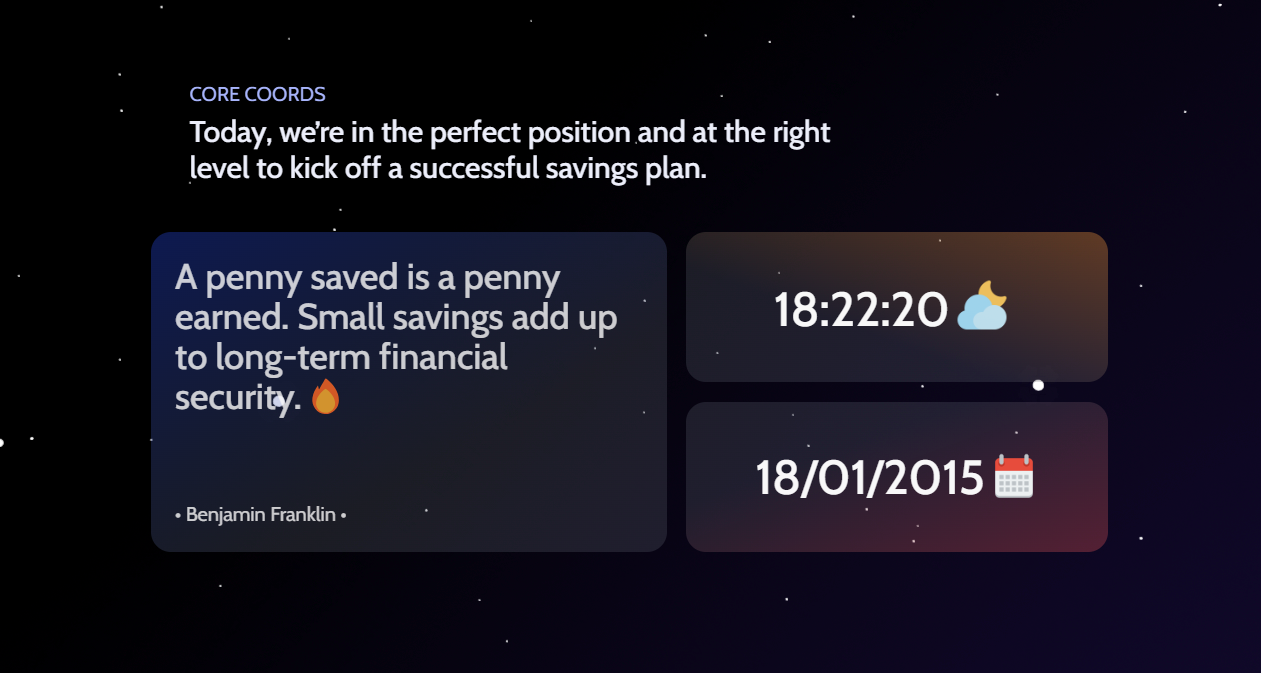
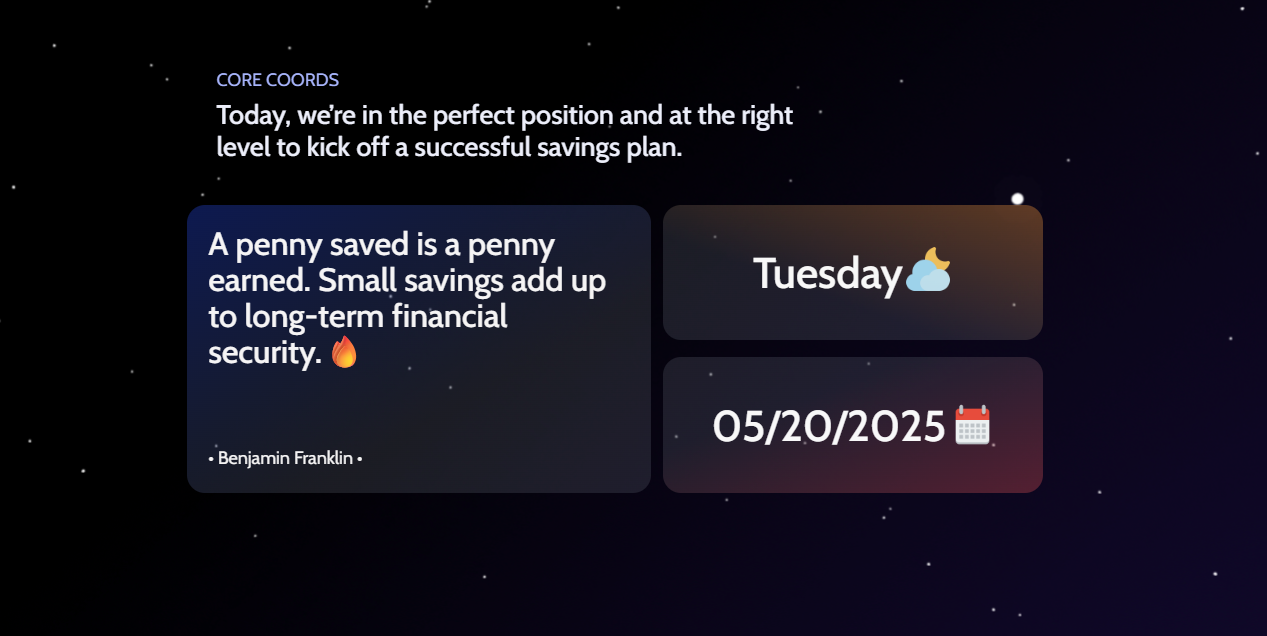
.

Changed region(s): [[0.0928, 0.2987, 0.8969, 0.8365], [0.1546, 0.0896, 0.6804, 0.2689]]

diff --git a/src/utils/i18n.ts b/src/utils/i18n.ts
@@ -23,7 +23,7 @@ const resources = {
         resetModal: {
           title:
             "You are about to reset all values! Are you sure you want to do this?",
-          desc: "By pressing the destructive button, you will reset all your values. Budget, Goal, Expenses, Results, and Graphs will have a value of zero.",
+          desc: "By pressing the destructive button, you will reset all your values. Budget, Goal, Expenses, Results, and Stats will have a value of zero.",
           leftBtn: "Delay self-destruction",
           rightBtn: "Yes, Destroy everything",
         },
@@ -157,7 +157,7 @@ const resources = {
           desc: "The results of your achievements are displayed in this table, providing you with a detailed overview of the path your expenses are taking.",
         },
         4: {
-          title: "Graphs and Percentages",
+          title: "Stats and Percentages",
           desc: "Provide a more mathematical insight into how well you’ve met your expectations. The first percentage shows how much you’ve saved, the second percentage displays the cost of essential investments, and the third percentage highlights how much you’re spending on Fun and Other activities.",
         },
       },
@@ -169,7 +169,7 @@ const resources = {
         infoCarts: {
           coreCoordsInfo: {
             title: "Core Coords Section",
-            desc: "This is your go-to motivational and info hub, packed with key-details for every great adventure. Alongside inspiring quotes, you’ll also find a handy way to keep track of time and date because every captain’s journey runs on perfect timing!",
+            desc: "This is your go-to motivational and info hub, packed with key-details for every great adventure. Alongside inspiring quotes, you’ll also find a handy way to keep track of days and date because every captain’s journey runs on perfect timing!",
           },
           budgetGoalInfo: {
             title: "Budget And Goal",
@@ -203,6 +203,16 @@ const resources = {
           desc: "If you have successfully completed your mission and a new savings period begins, you can easily delete all data by clicking this button. <span>WARNING</span>, once you confirm self-destruction, none of the data will be recoverable.",
         },
       },
+      data: {
+        barsContentData: {
+          rent: "Rent",
+          food: "Food",
+          car: "Car",
+          hobby: "Hobby",
+          fun: "Fun",
+          other: "Other",
+        },
+      },
     },
   },
   sk: {
@@ -222,7 +232,7 @@ const resources = {
         resetModal: {
           title:
             "Chystáte sa resetovať všetky hodnoty! Ste si istý, že to chcete urobiť?",
-          desc: "Stlačením deštruktívneho tlačidla resetujete všetky svoje hodnoty. Rozpočet, cieľ, výdavky, výsledky a grafy budú mať hodnotu nula.",
+          desc: "Stlačením deštruktívneho tlačidla resetujete všetky svoje hodnoty. Rozpočet, cieľ, výdavky, výsledky a štatistiky budú mať hodnotu nula.",
           leftBtn: "Oneskoriť sebadeštrukciu",
           rightBtn: "Áno, všetko zničiť",
         },
@@ -357,7 +367,7 @@ const resources = {
           desc: "Výsledky vašich dosiahnutých cieľov sú zobrazené v tejto tabuľke, ktorá vám poskytuje podrobný prehľad o ceste, ktorou vaše výdavky smerujú.",
         },
         4: {
-          title: "Grafy a percentá",
+          title: "Štatistiky a Percentá",
           desc: "Poskytujú matematický pohľad na to, ako dobre ste splnili svoje očakávania. Prvé percento ukazuje, koľko ste ušetrili, druhé percento zobrazuje náklady na nevyhnutné investície a tretie percento zdôrazňuje, koľko míňate na zábavu a iné aktivity.",
         },
       },
@@ -370,10 +380,10 @@ const resources = {
         infoCarts: {
           coreCoordsInfo: {
             title: "Sekcia hlavné súradnice",
-            desc: "Toto je váš motivačný a informačný hub, plný kľúčových informácií pre každé veľké dobrodružstvo. Okrem inšpirujúcich citátov tu nájdete aj praktický spôsob, ako sledovať čas a dátum, pretože každá kapitánova cesta sa riadi dokonalým načasovaním!",
+            desc: "Toto je váš motivačný a informačný hub, plný kľúčových informácií pre každé veľké dobrodružstvo. Okrem inšpirujúcich citátov tu nájdete aj praktický spôsob, ako sledovať dni a dátum, pretože každá kapitánova cesta sa riadi dokonalým načasovaním!",
           },
           budgetGoalInfo: {
-            title: "Rozpočet A Cieľov",
+            title: "Rozpočet A Cieľ",
             desc: "Toto je miesto, kde začína základ vášho šetriaceho dobrodružstva! V sekcii „Váš rozpočet“ nastavte sumu, ktorú plánujete dodržiavať počas zvoleného obdobia šetrenia. Toto je vaša finančná kľúčová informácia, ktorá formuje všetko ostatné na vašej ceste. Ďalej, v sekcii „Vaše ciele“, nastavte svoj cieľ šetrenia. Rozhodnite sa, koľko chcete ušetriť a na čo sa zameriavate.",
           },
           financeBarsInfo: {
@@ -388,20 +398,30 @@ const resources = {
         expensesReviewsCart: {
           savedBar: {
             title: "Ušetrené",
-            desc: "Pásik „Ušetrené“ vám ukáže, koľko peňazí ste ušetrili zo svojho pôvodného rozpočtu, a to ako v percentách, tak aj v číselnej hodnote.",
+            desc: "Sekcia „Ušetrené“ vám ukáže, koľko peňazí ste ušetrili zo svojho pôvodného rozpočtu, a to ako v percentách, tak aj v číselnej hodnote.",
           },
           spentBar: {
             title: "Minuté",
-            desc: "Pásik „Minuté“ zobrazuje celkovú sumu peňazí, ktorú ste minuli zo svojho rozpočtu, a to ako v percentách, tak aj v číselnej hodnote.",
+            desc: "Sekcia „Minuté“ zobrazuje celkovú sumu peňazí, ktorú ste minuli zo svojho rozpočtu, a to ako v percentách, tak aj v číselnej hodnote.",
           },
           funOtherBar: {
             title: "Zábava/Iné",
-            desc: "Pásik „Zábava/Iné“ zobrazuje sumu peňazí, ktorú ste minuli konkrétne na zábavu a iné výdavky zo pásika „Minulé“. Táto hodnota je zobrazená ako číslo aj ako percento, ktoré odráža podiel tejto sumy na celkovej sume pásika „Minulé“.",
+            desc: "Sekcia „Zábava/Iné“ zobrazuje sumu peňazí, ktorú ste minuli konkrétne na zábavu a iné výdavky zo sekcie „Minuté“. Táto hodnota je zobrazená ako číslo aj ako percento, ktoré odráža podiel tejto sumy na celkovej sume sekcie „Minulé“.",
           },
         },
         resetButtonInfo: {
           title: "Tlačidlo sebadeštrukcie",
           desc: "Ak ste úspešne dokončili svoju misiu a začína nové obdobie šetrenia, môžete jednoducho vymazať všetky údaje kliknutím na toto tlačidlo. <span>UPOZORNENIE</span>, po potvrdení sebadeštrukcie už nebude možné obnoviť žiadne údaje.",
+        },
+      },
+      data: {
+        barsContentData: {
+          rent: "Nájom",
+          food: "Jedlo",
+          car: "Auto",
+          hobby: "Záľuby",
+          fun: "Zábava",
+          other: "Ostatné",
         },
       },
     },

diff --git a/src/pages/homePage/saverFunction/components/financeResults/FinanceResults.tsx b/src/pages/homePage/saverFunction/components/financeResults/FinanceResults.tsx
@@ -3,13 +3,14 @@ import { ResultBar } from "../../../../../components/resultBar/ResultBar";
 import style from "./financeResults.module.scss";
 import { t } from "i18next";
 import { useCurrencyDataContext } from "../../../../../hooks/context/CurrencyDataContext";
-import { barsContentData } from "../../../../../data/barsContentData";
+import { BarsContentData } from "../../../../../data/BarsContentData";
+
 
 export const FinanceResults = () => {
   const { currency } = useCurrencyDataContext();
 
   // DATA
-  const data = barsContentData;
+  const data = BarsContentData();
 
   return (
     <div className="mt-[160px] xl:w-[88%] mx-auto">
@@ -36,7 +37,7 @@ export const FinanceResults = () => {
         after:absolute after:h-[2px] after:w-[90%] after:bg-[#ffffff7a] after:-bottom-14 after:rounded-lg"
       >
         {data.map((i) => {
-          return <ResultBar id={i.id} name={i.name} currency={currency} />;
+          return <ResultBar id={i.id} key={i.id} name={i.name} currency={currency} />;
         })}
       </div>
     </div>

diff --git a/src/pages/homePage/saverFunction/components/financeBars/FinanceBars.tsx b/src/pages/homePage/saverFunction/components/financeBars/FinanceBars.tsx
@@ -1,11 +1,11 @@
 import { FinanceBar } from "../../../../../components/financeBar/FinanceBar";
-import { barsContentData } from "../../../../../data/barsContentData";
+import { BarsContentData } from "../../../../../data/BarsContentData";
 import style from "./financeBars.module.scss";
 import { t } from "i18next";
 
 export const FinanceBars = () => {
   // DATA
-  const data = barsContentData;
+  const data = BarsContentData();
 
   return (
     <div
@@ -21,7 +21,9 @@ export const FinanceBars = () => {
       </div>
       <div className="w-full md:mt-[80px] mt-[60px] text-3xl text-white grid lg:grid-cols-2 grid-cols-1 justify-items-center md:gap-[30px] gap-[40px]">
         {data.map((i) => {
-          return <FinanceBar id={i.id} inputId={i.id} text={i.name} />;
+          return (
+            <FinanceBar id={i.id} key={i.id} inputId={i.id} text={i.name} />
+          );
         })}
       </div>
       <div className="w-full md:mt-[80px] mt-[60px] mb-[20px]">

diff --git a/src/data/BarsContentData.tsx b/src/data/BarsContentData.tsx
@@ -1,0 +1,37 @@
+import { t } from "i18next";
+
+type BarsContentDataType = {
+  id: string;
+  name: string;
+};
+
+export const BarsContentData = () => {
+  const barsContentData: BarsContentDataType[] = [
+    {
+      id: "rent",
+      name: t("data.barsContentData.rent"),
+    },
+    {
+      id: "food",
+      name: t("data.barsContentData.food"),
+    },
+    {
+      id: "car",
+      name: t("data.barsContentData.car"),
+    },
+    {
+      id: "hobby",
+      name: t("data.barsContentData.hobby"),
+    },
+    {
+      id: "fun",
+      name: t("data.barsContentData.fun"),
+    },
+    {
+      id: "other",
+      name: t("data.barsContentData.other"),
+    },
+  ];
+
+  return barsContentData;
+};

diff --git a/src/components/navbars/LoginNavbar.tsx b/src/components/navbars/LoginNavbar.tsx
@@ -57,7 +57,7 @@ const LoginNavbar = () => {
             onChange={(e) => st.setPassword(e.target.value)}
           />
           <button
-            className="w-[90px] h-[60%] rounded-[6px] text-[white] bg-purpleButton500 hover:bg-purpleButton300 font-bold lg:text-lg text-sm"
+            className="w-[100px] h-[60%] rounded-[6px] text-[white] bg-purpleButton500 hover:bg-purpleButton300 font-bold lg:text-lg text-sm"
             type="submit"
           >
             {t("auth.buttons.logIn")}
